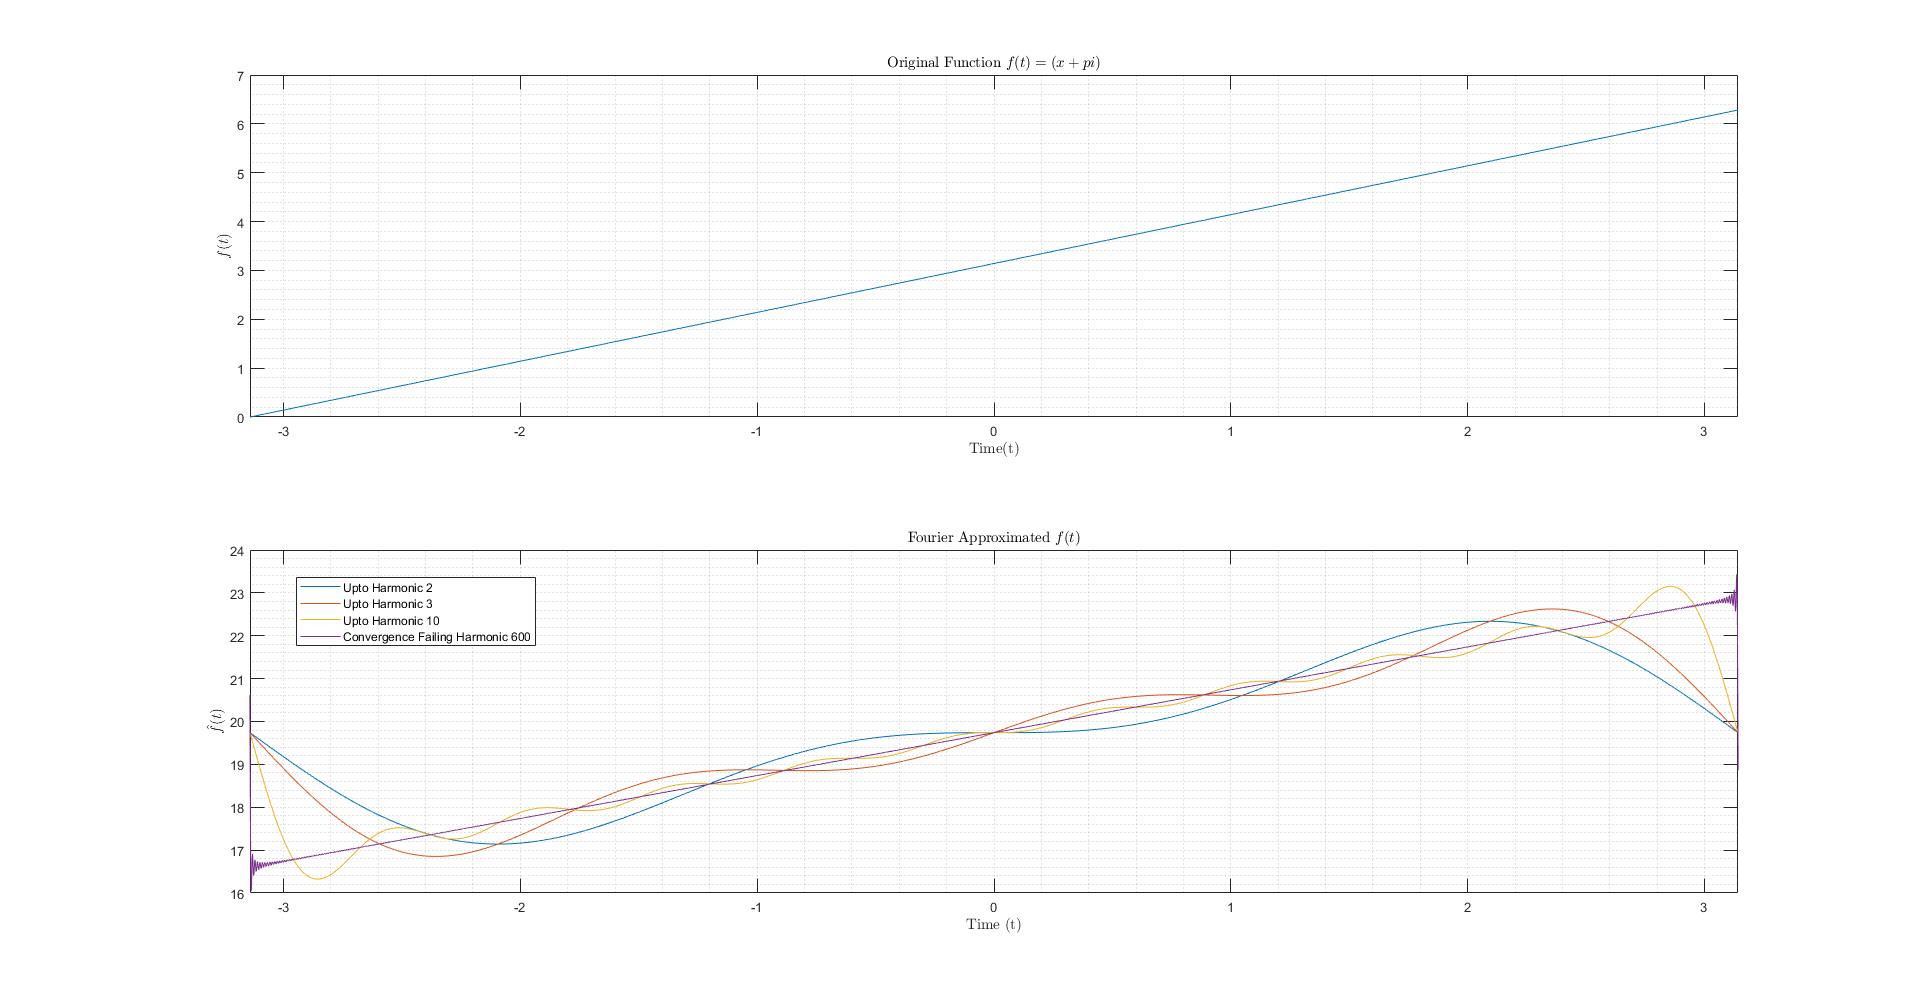
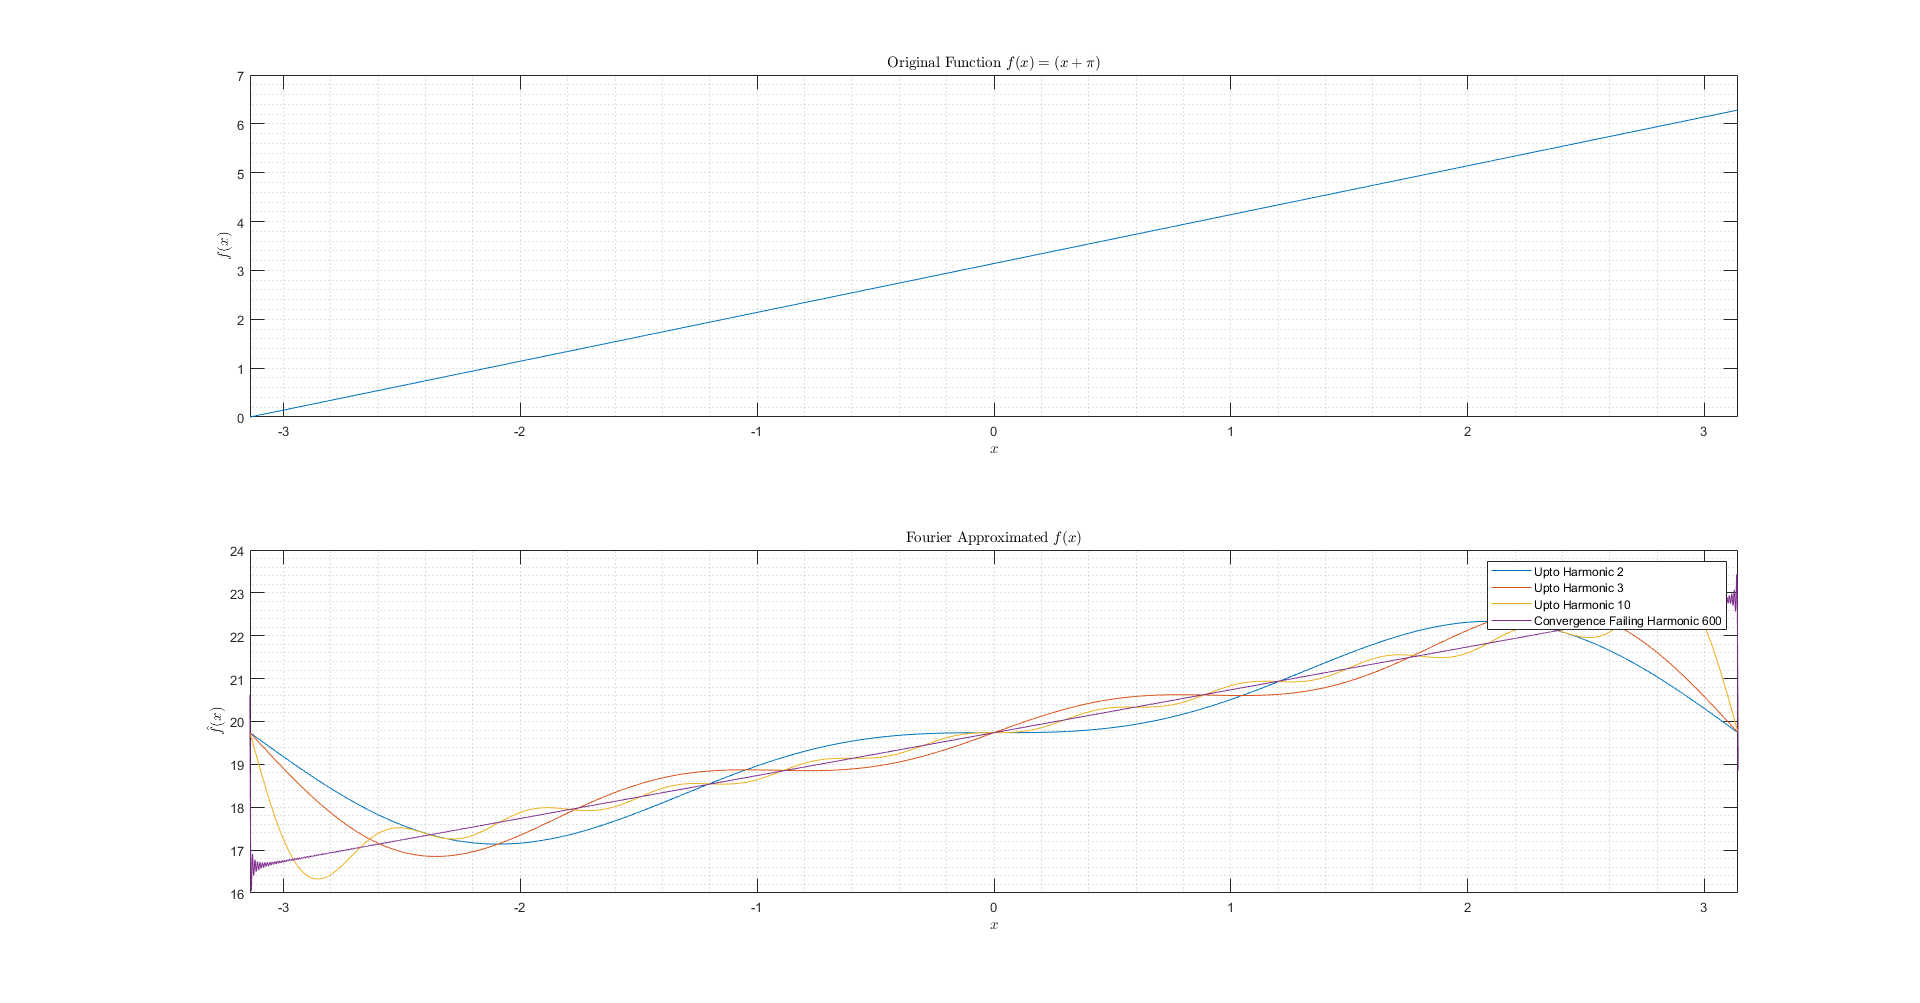
Finished

diff --git a/Problem1.m b/Problem1.m
@@ -1,4 +1,4 @@
-fs=1/48e3;
+fs=1/4e3;
 x=-10:fs:10;
 fx=zeros(length(x),1);
 %% PROBLEM 1
@@ -12,9 +12,9 @@ subplot(2,1,1)
 plot(x1,fx1);
 grid minor
 xlim([-pi,pi])
-xlabel("Time(t)",'Interpreter','Latex')
-ylabel('$${f}(t)$$','Interpreter','Latex')
-title("Original Function $$f(t)=(x+pi)$$",'Interpreter','Latex')
+xlabel("$$x$$",'Interpreter','Latex')
+ylabel('$${f}(x)$$','Interpreter','Latex')
+title("Original Function $$f(x)=(x+\pi)$$",'Interpreter','Latex')
 i=1;
 a0=2*pi^2;
 f_approx1=a0;
@@ -42,9 +42,9 @@ for n=1:N1
         subplot(2,1,2)
         plot(x,f_approx1)
         legend_name(i,1)=strcat("Convergence Failing Harmonic ",num2str(n));
-        xlabel("Time (t)",'Interpreter','Latex')
-        ylabel('$$\hat{f}(t)$$','Interpreter','Latex')
-        title("Fourier Approximated $$f(t)$$",'Interpreter','Latex')
+        xlabel("$$x$$",'Interpreter','Latex')
+        ylabel('$$\hat{f}(x)$$','Interpreter','Latex')
+        title("Fourier Approximated $$f(x)$$",'Interpreter','Latex')
         legend(legend_name);
         grid minor
         

diff --git a/Problem2.m b/Problem2.m
@@ -15,9 +15,9 @@ subplot(2,1,1)
 plot(x1,fx1);
 grid minor
 xlim([-pi,pi])
-xlabel("Time(t)",'Interpreter','Latex')
-ylabel('$${f}(t)$$','Interpreter','Latex')
-title("Original Function $$f(t)=\sqrt(1-cos(x))$$",'Interpreter','Latex')
+xlabel("$$x$$",'Interpreter','Latex')
+ylabel('$${f}(x)$$','Interpreter','Latex')
+title("Original Function $$f(x)=\sqrt(1-cos(x))$$",'Interpreter','Latex')
 i=1;
 a0=0;
 f_approx1=a0;
@@ -46,9 +46,9 @@ for n=1:N1
         plot(x1,f_approx1)
         xlim([-pi,pi])
         legend_name(i,1)=strcat("Convergence Failing Harmonic ",num2str(n));
-        xlabel("Time (t)",'Interpreter','Latex')
-        ylabel('$$\hat{f}(t)$$','Interpreter','Latex')
-        title("Fourier Approximated $$f(t)$$",'Interpreter','Latex')
+        xlabel("$$x$$",'Interpreter','Latex')
+        ylabel('$$\hat{f}(x)$$','Interpreter','Latex')
+        title("Fourier Approximated $$f(x)$$",'Interpreter','Latex')
         legend(legend_name);
         grid minor
    

diff --git a/Problem6.m b/Problem6.m
@@ -22,9 +22,9 @@ subplot(2,1,1)
 plot(x,fx);
 grid minor
 xlim([0,2])
-xlabel("Time(t)",'Interpreter','Latex')
-ylabel('$${f}(t)$$','Interpreter','Latex')
-title("Original Function $$f(t)=x\pi $$ or $$ (2-x)\pi$$",'Interpreter','Latex')
+xlabel("$$x$$",'Interpreter','Latex')
+ylabel('$${f}(x)$$','Interpreter','Latex')
+title("Original Function $$f(x)=x\pi $$ or $$ (2-x)\pi$$",'Interpreter','Latex')
 i=1;
 a0=pi/2;
 f_approx1=a0;
@@ -54,9 +54,9 @@ for n=1:N1
         plot(x,f_approx1)
         xlim([0,2])
         legend_name(i,1)=strcat("Upto Harmonic ",num2str(n));
-        xlabel("Time (t)",'Interpreter','Latex')
-        ylabel('$$\hat{f}(t)$$','Interpreter','Latex')
-        title("Fourier Approximated $$f(t)$$",'Interpreter','Latex')
+        xlabel("$$x$$",'Interpreter','Latex')
+        ylabel('$$\hat{f}(x)$$','Interpreter','Latex')
+        title("Fourier Approximated $$f(x)$$",'Interpreter','Latex')
         legend(legend_name);
         grid minor
    

diff --git a/Problem3.m b/Problem3.m
@@ -15,9 +15,9 @@ subplot(2,1,1)
 plot(x1,fx1);
 grid minor
 xlim([-pi,pi])
-xlabel("Time(t)",'Interpreter','Latex')
-ylabel('$${f}(t)$$','Interpreter','Latex')
-title("Original Function $$f(t)=xsin(x)$$",'Interpreter','Latex')
+xlabel("$$x$$",'Interpreter','Latex')
+ylabel('$${f}(x)$$','Interpreter','Latex')
+title("Original Function $$f(x)=xsin(x)$$",'Interpreter','Latex')
 i=1;
 a0=0;
 f_approx1=a0;
@@ -46,9 +46,9 @@ for n=2:N1
         plot(x1,f_approx1)
         xlim([-pi,pi])
         legend_name(i,1)=strcat("Upto Harmonic ",num2str(n));
-        xlabel("Time (t)",'Interpreter','Latex')
-        ylabel('$$\hat{f}(t)$$','Interpreter','Latex')
-        title("Fourier Approximated $$f(t)$$",'Interpreter','Latex')
+        xlabel("$$x$$",'Interpreter','Latex')
+        ylabel('$$\hat{f}(x)$$','Interpreter','Latex')
+        title("Fourier Approximated $$f(x)$$",'Interpreter','Latex')
         legend(legend_name);
         grid minor
    

diff --git a/Problem4.m b/Problem4.m
@@ -15,9 +15,9 @@ subplot(2,1,1)
 plot(x1,fx1);
 grid minor
 xlim([-pi,pi])
-xlabel("Time(t)",'Interpreter','Latex')
-ylabel('$${f}(t)$$','Interpreter','Latex')
-title("Original Function $$f(t)=xcos(x)$$",'Interpreter','Latex')
+xlabel("$$x$$",'Interpreter','Latex')
+ylabel('$${f}(x)$$','Interpreter','Latex')
+title("Original Function $$f(x)=xcos(x)$$",'Interpreter','Latex')
 i=1;
 a0=0;
 f_approx1=a0;
@@ -46,9 +46,9 @@ for n=2:N1
         plot(x1,f_approx1)
         xlim([-pi,pi])
         legend_name(i,1)=strcat("Upto Harmonic ",num2str(n));
-        xlabel("Time (t)",'Interpreter','Latex')
-        ylabel('$$\hat{f}(t)$$','Interpreter','Latex')
-        title("Fourier Approximated $$f(t)$$",'Interpreter','Latex')
+        xlabel("$$x$$",'Interpreter','Latex')
+        ylabel('$$\hat{f}(x)$$','Interpreter','Latex')
+        title("Fourier Approximated $$f(x)$$",'Interpreter','Latex')
         legend(legend_name);
         grid minor
    
